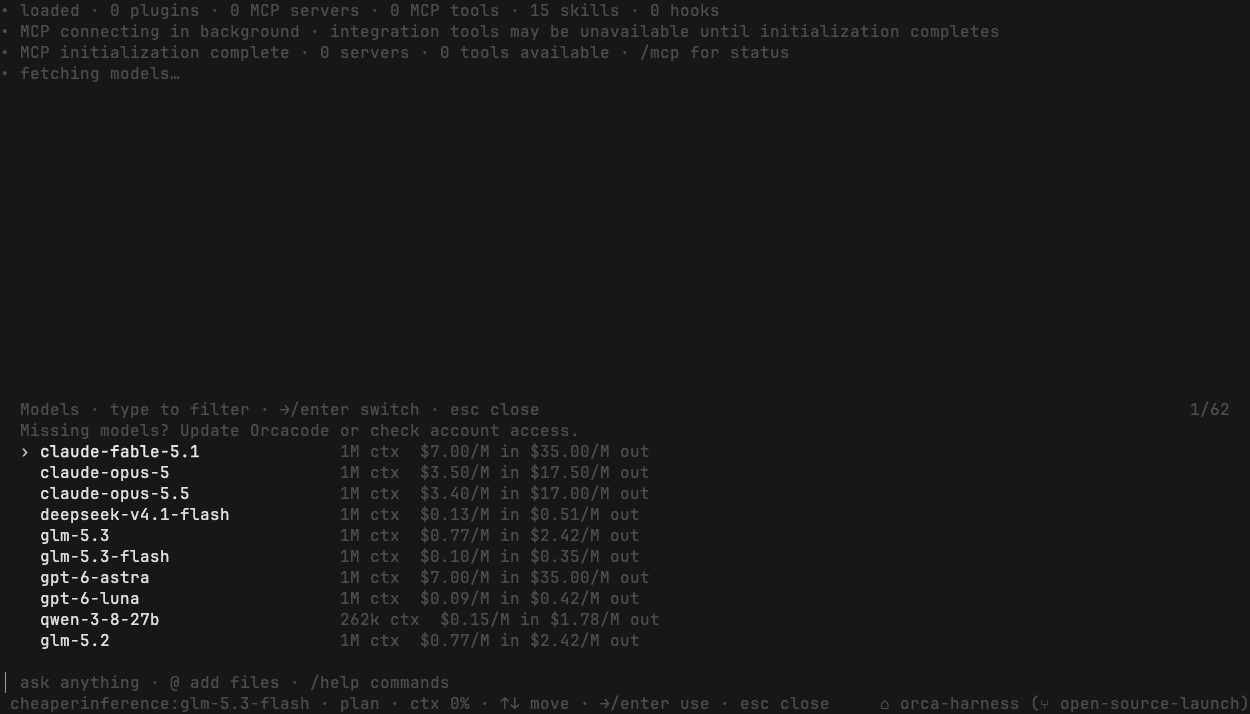
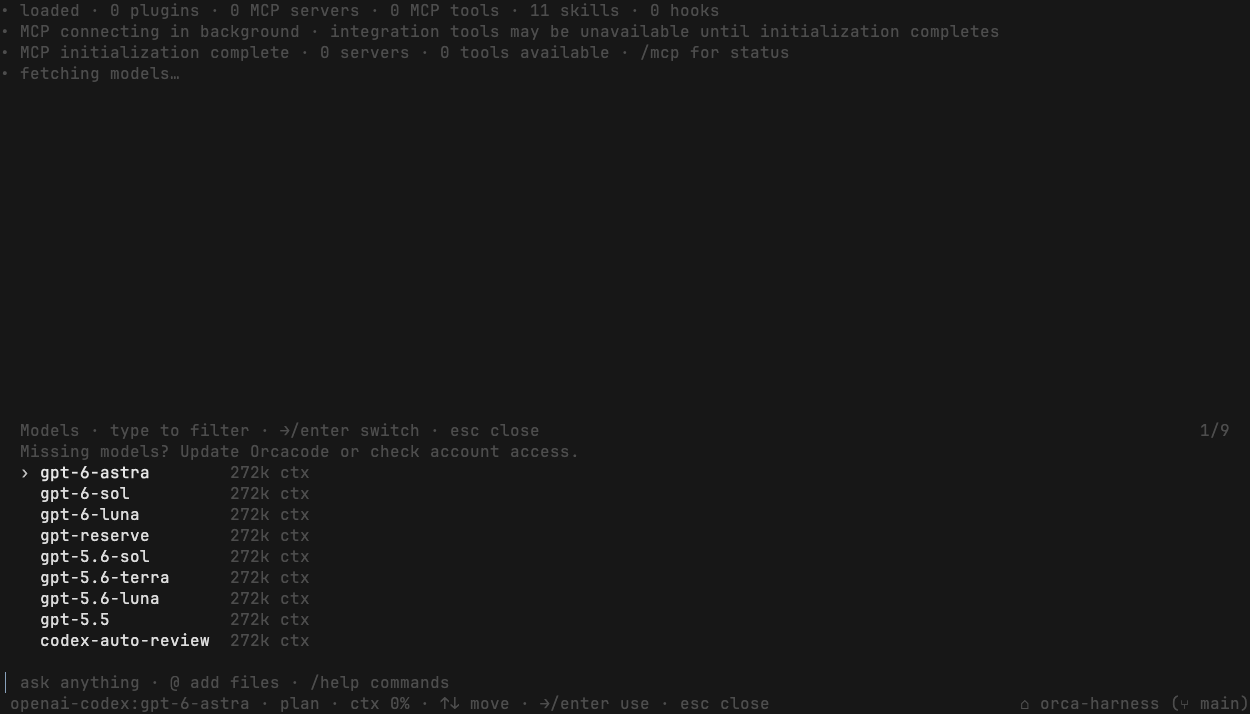
docs: re-record README screenshots on main with OpenAI Codex
Recorded from a neutral workspace path on main, signed in with ChatGPT,
to match the launch setup.

diff --git a/README.md b/README.md
@@ -13,7 +13,7 @@ One static binary (6.5 MB on macOS). One process. Any model.
 
 [Install](#install) · [Quick start](#quick-start) · [Docs](https://orcapods.ai/orcacode/docs/#start) · [Embed the harness](#embed-the-harness) · [Contributing](#contributing)
 
-<img src="docs/assets/screenshots/answer.png" alt="Orcacode answering a question about this repository in plan mode, citing file and line numbers" width="900">
+<img src="docs/assets/screenshots/answer.png" alt="Orcacode answering a question about this repository in plan mode and citing the files it read" width="900">
 
 </div>
 
@@ -129,8 +129,8 @@ a full multi-provider setup in three steps.
     <td align="center">Tool calls fan out in parallel and group per turn</td>
   </tr>
   <tr>
-    <td width="50%"><img src="docs/assets/screenshots/answer.png" alt="A finished answer citing dispatcher.rs line ranges"></td>
-    <td width="50%"><img src="docs/assets/screenshots/models.png" alt="The model picker listing a live provider catalog with context sizes and prices"></td>
+    <td width="50%"><img src="docs/assets/screenshots/answer.png" alt="A finished answer that cites the dispatcher, agent loop and test files it read"></td>
+    <td width="50%"><img src="docs/assets/screenshots/models.png" alt="The model picker listing the live OpenAI Codex catalog with context sizes"></td>
   </tr>
   <tr>
     <td align="center">Answers cite the code they read</td>
